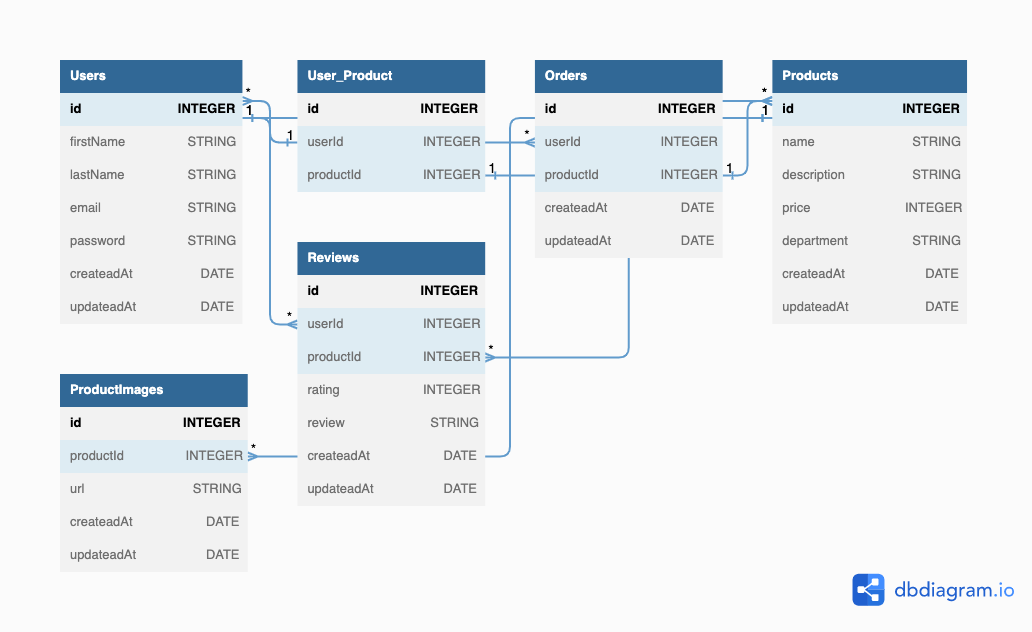
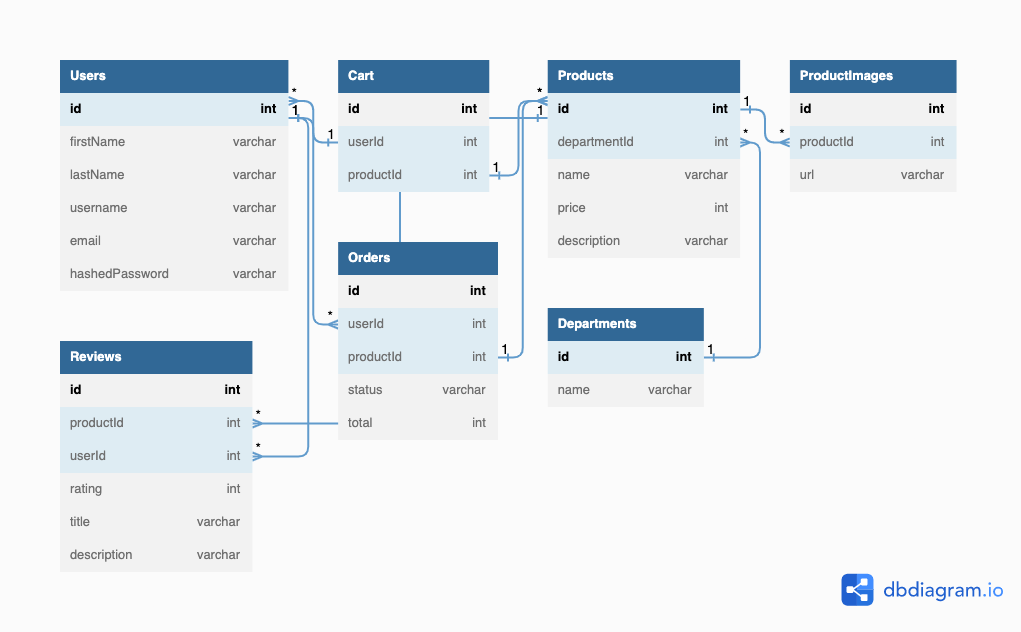
Cart model + migration

diff --git a/backend/db/migrations/20221123115235-create-cart.js b/backend/db/migrations/20221123115235-create-cart.js
@@ -1,0 +1,39 @@
+'use strict';
+// /** @type {import('sequelize-cli').Migration} */
+module.exports = {
+  async up(queryInterface, Sequelize) {
+    await queryInterface.createTable('Carts', {
+      id: {
+        allowNull: false,
+        autoIncrement: true,
+        primaryKey: true,
+        type: Sequelize.INTEGER
+      },
+      userId: {
+        allowNull: false,
+        type: Sequelize.INTEGER,
+        references: { model: 'Users' },
+        onDelete: 'CASCADE'
+      },
+      productId: {
+        allowNull: false,
+        type: Sequelize.INTEGER,
+        references: { model: 'Products' },
+        onDelete: 'CASCADE'
+      },
+      createdAt: {
+        allowNull: false,
+        type: Sequelize.DATE,
+        defaultValue: Sequelize.literal('CURRENT_TIMESTAMP')
+      },
+      updatedAt: {
+        allowNull: false,
+        type: Sequelize.DATE,
+        defaultValue: Sequelize.literal('CURRENT_TIMESTAMP')
+      },
+    });
+  },
+  async down(queryInterface, Sequelize) {
+    await queryInterface.dropTable('Carts');
+  }
+};

diff --git a/backend/db/models/cart.js b/backend/db/models/cart.js
@@ -1,0 +1,34 @@
+'use strict';
+const { Model } = require('sequelize');
+module.exports = (sequelize, DataTypes) => {
+  class Cart extends Model {
+    /**
+     * Helper method for defining associations.
+     * This method is not a part of Sequelize lifecycle.
+     * The `models/index` file will call this method automatically.
+     */
+    static associate(models) {
+      // define association here
+      Cart.belongsTo(models.User, { foreignKey: 'userId' }),
+      Cart.belongsTo(models.Product, { foreignKey: 'productId' })
+    }
+  }
+
+
+  Cart.init({
+    userId: {
+      type: DataTypes.INTEGER,
+      allowNull: false
+    },
+    productId: {
+      type: DataTypes.INTEGER,
+      allowNull: false
+    },
+
+
+  }, {
+    sequelize,
+    modelName: 'Cart',
+  });
+  return Cart;
+};
